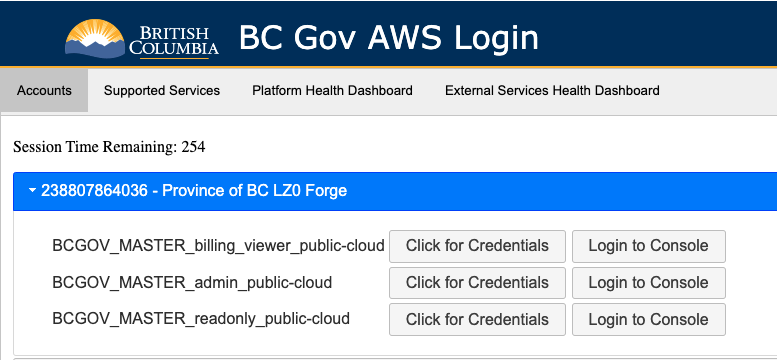
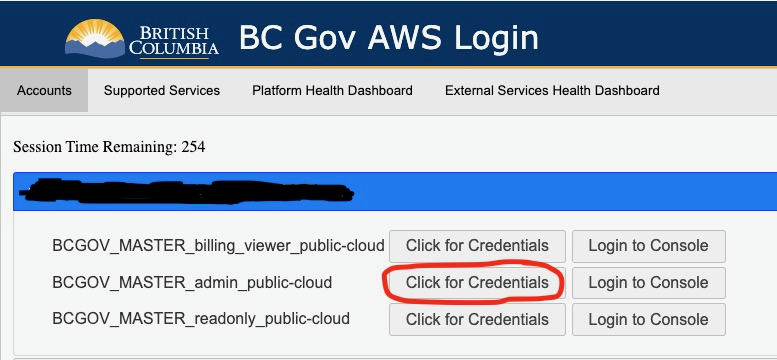
Added more info about local deployment

diff --git a/docs/requirements-for-building-your-application.md b/docs/requirements-for-building-your-application.md
@@ -42,7 +42,7 @@ To deploy your application:
 * Only grant access to your AWS accounts for those who actually need it
 
 ## Local deployment
-To run local deployments using an Infrastructure as Code (IaC) tool like Terraform on your machine, you'll need the following:
+To run local deployments using an Infrastructure as Code (IaC) tool like Terraform on your machine, you'll need the following install on your machine; Terraform and AWS CLI. See how to install [terraform](https://developer.hashicorp.com/terraform/tutorials/aws-get-started/install-cli) and [AWS CLI](https://docs.aws.amazon.com/cli/latest/userguide/getting-started-install.html) You also need AWS credential, which could be obtain from our AWS login page, see below image
 
 <!-- User question, to develop this subject more: 
 
@@ -52,10 +52,7 @@ Where do I obtain Terraform?
 
 How do I obtain aws credentials?  -->
 
-* An AWS account with the necessary permissions
-* Terraform
-* AWS CLI
-* AWS credentials
+
  ![aws-credential-cli](images/requirements-for-building-your-application/aws-credential-cli.png)
 
 ## Next steps
